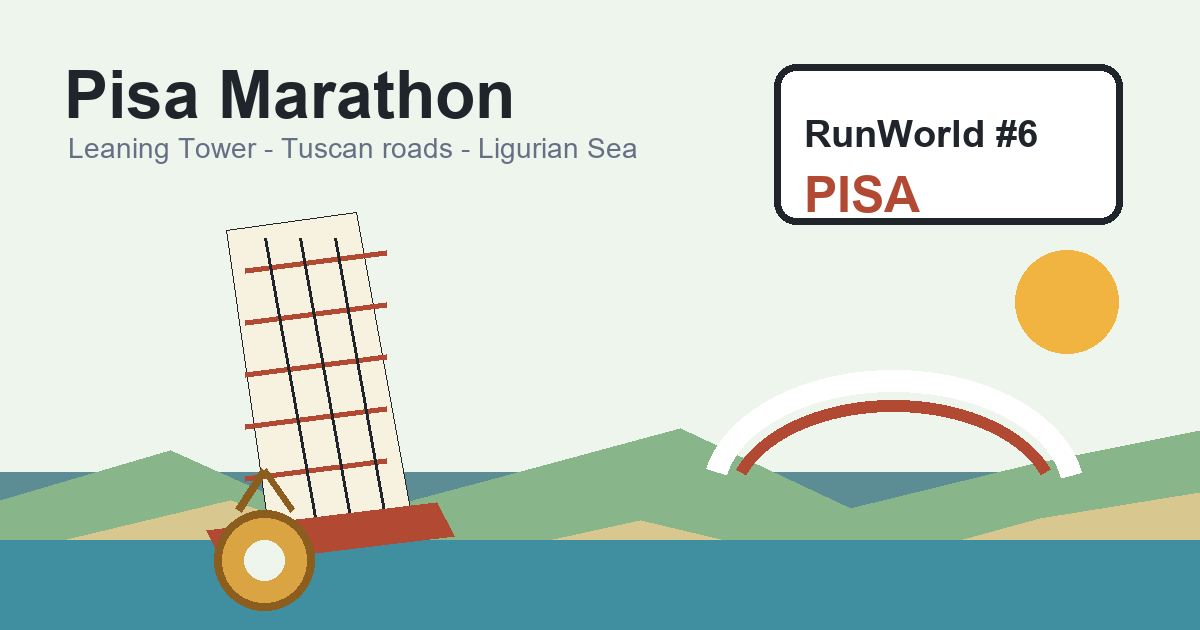
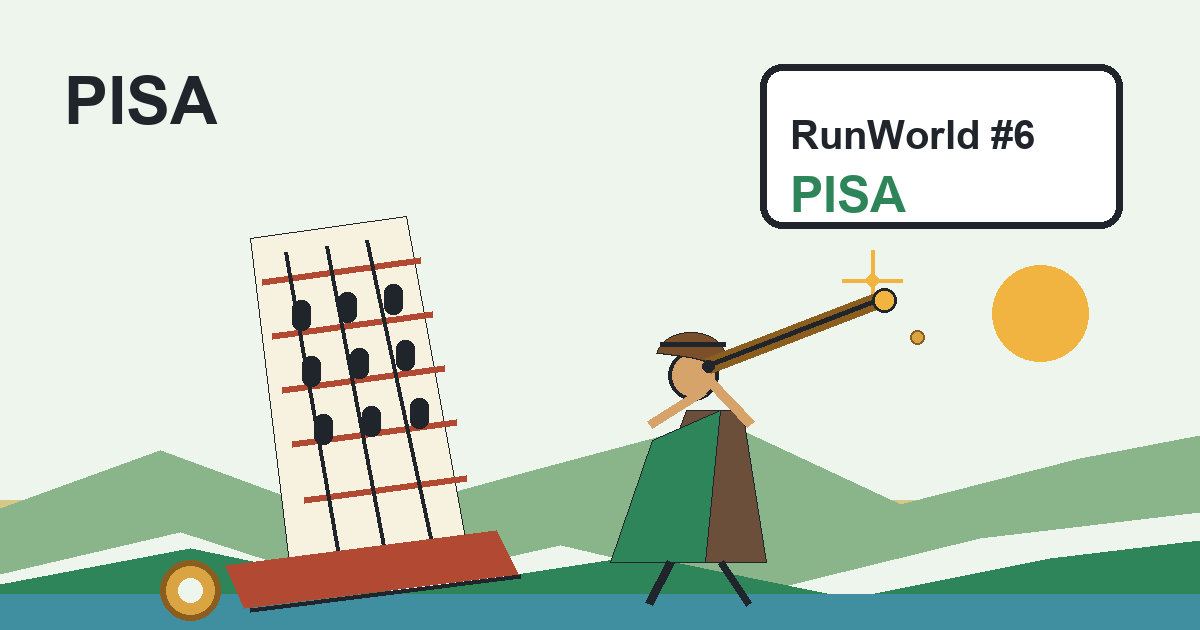
Redesign Pisa RunWorld cover

diff --git a/run50/facebook/pisa-marathon.html b/run50/facebook/pisa-marathon.html
@@ -259,7 +259,7 @@
       <h1>Pisa turned a marathon into a Tuscan art-school road trip</h1>
       <p class="dek">Race date: December 21, 2025. A Pisa Marathon story that starts at the Leaning Tower, runs through Tuscan countryside and the Ligurian Sea, then keeps going through Venice, Milan, Florence and Rome.</p>
       <div class="byline"><span>By Arsenan</span><span>Pisa, Italy</span><span>December 21, 2025</span></div>
-      <figure class="lead-media"><img src="../../assets/og-run50-pisa-icons.png" alt="Icon-style Pisa Marathon cover"><figcaption>Pisa icon cover with the Leaning Tower, Arno River, Tuscan hills, sea and medal.</figcaption></figure>
+      <figure class="lead-media"><img src="../../assets/og-run50-pisa-icons.png" alt="Icon-style Pisa Marathon cover"><figcaption>Pisa icon cover with the Leaning Tower, Galileo's telescope, Tuscan hills and medal.</figcaption></figure>
     </section>
     <section class="story-grid">
       <aside class="rail">

diff --git a/run50/stories/chinese/index.html b/run50/stories/chinese/index.html
@@ -208,7 +208,7 @@
         </div>
       </a>
       <a class="story-card run-world" href="./pisa-marathon.html">
-        <img src="../../../assets/thumb-run50-pisa-icons.svg?v=20260604-1" alt="意大利比萨马拉松城市图标封面" loading="lazy" decoding="async">
+        <img src="../../../assets/thumb-run50-pisa-icons.svg?v=20260604-11" alt="意大利比萨马拉松城市图标封面" loading="lazy" decoding="async">
         <div class="story-copy">
           <p class="story-meta">意大利比萨 · 2025.12.21</p>
           <h2 class="story-title">RunWorld #第6国｜意大利：比萨马拉松</h2>

diff --git a/run50/stories/english/index.html b/run50/stories/english/index.html
@@ -164,7 +164,7 @@
         </div>
       </a>
       <a class="story-card run-world" href="./pisa-marathon.html">
-        <img src="../../../assets/thumb-run50-pisa-icons.svg?v=20260604-1" alt="Icon cover for Pisa Marathon" />
+        <img src="../../../assets/thumb-run50-pisa-icons.svg?v=20260604-11" alt="Icon cover for Pisa Marathon" />
         <div class="story-card-content">
           <div class="meta">Italy · Pisa · 2025.12.21</div>
           <h2>Pisa Marathon: under the Leaning Tower and through Tuscany</h2>

diff --git a/run50/facebook/index.html b/run50/facebook/index.html
@@ -240,7 +240,7 @@
           <span>Run50 Facebook</span>
         </div>
       </div>
-      <img src="../../assets/thumb-run50-pisa-icons.svg?v=20260604-1" alt="Icon-style Pisa Marathon cover">
+      <img src="../../assets/thumb-run50-pisa-icons.svg?v=20260604-11" alt="Icon-style Pisa Marathon cover">
     </a>
     <a class="story-card run-50" href="./miami-marathon.html">
       <div>

diff --git a/tools/build_pisa_story.py b/tools/build_pisa_story.py
@@ -786,7 +786,7 @@ def facebook_page(article: str) -> str:
       <h1>{escape(title)}</h1>
       <p class="dek">{escape(desc)}</p>
       <div class="byline"><span>By Arsenan</span><span>Pisa, Italy</span><span>December 21, 2025</span></div>
-      <figure class="lead-media"><img src="../../assets/og-run50-pisa-icons.png" alt="Icon-style Pisa Marathon cover"><figcaption>Pisa icon cover with the Leaning Tower, Arno River, Tuscan hills, sea and medal.</figcaption></figure>
+      <figure class="lead-media"><img src="../../assets/og-run50-pisa-icons.png" alt="Icon-style Pisa Marathon cover"><figcaption>Pisa icon cover with the Leaning Tower, Galileo's telescope, Tuscan hills and medal.</figcaption></figure>
     </section>
     <section class="story-grid">
       <aside class="rail">
@@ -832,56 +832,94 @@ def fit_font(draw, text, max_width, start_size, bold=False, min_size=24):
 def write_pisa_png():
     image = Image.new("RGB", (1200, 630), "#eef5ec")
     draw = ImageDraw.Draw(image)
-    draw.text((64, 58), "Pisa Marathon", font=font(66, True), fill="#20242b")
-    draw.text((68, 132), "Leaning Tower - Tuscan roads - Ligurian Sea", font=font(28), fill="#667085")
-    draw.rounded_rectangle((774, 64, 1122, 224), radius=22, fill="#ffffff", outline="#20242b", width=7)
-    draw.text((804, 112), "RunWorld #6", font=font(38, True), fill="#20242b")
-    draw.text((804, 166), "PISA", font=font(50, True), fill="#b24a33")
+    draw.text((64, 64), "PISA", font=font(66, True), fill="#20242b")
+    draw.rounded_rectangle((760, 64, 1122, 228), radius=22, fill="#ffffff", outline="#20242b", width=7)
+    draw.text((790, 112), "RunWorld #6", font=font(40, True), fill="#20242b")
+    draw.text((790, 166), "PISA", font=font(50, True), fill="#2f855a")
 
-    draw.ellipse((1015, 250, 1118, 353), fill="#f2b441")
-    draw.rectangle((0, 472, 1200, 630), fill="#5c8d94")
-    draw.polygon([(0, 500), (170, 450), (330, 522), (510, 474), (680, 428), (850, 508), (1030, 464), (1200, 430), (1200, 630), (0, 630)], fill="#89b58a")
-    draw.polygon([(0, 555), (230, 500), (430, 566), (640, 520), (850, 570), (1040, 518), (1200, 492), (1200, 630), (0, 630)], fill="#d8c78f")
-    draw.rectangle((0, 540, 1200, 630), fill="#3f8fa0")
-    draw.arc((702, 370, 1084, 618), 192, 350, fill="#ffffff", width=22)
-    draw.arc((726, 400, 1060, 610), 200, 340, fill="#b24a33", width=12)
+    draw.ellipse((992, 265, 1088, 361), fill="#f2b441")
+    draw.ellipse((866, 274, 878, 286), fill="#f2b441")
+    draw.line((872, 250, 872, 310), fill="#f2b441", width=4)
+    draw.line((842, 280, 902, 280), fill="#f2b441", width=4)
+    draw.ellipse((910, 330, 924, 344), fill="#d9a441", outline="#8b5e20", width=2)
 
-    tower = [(226, 230), (356, 212), (412, 520), (270, 540)]
+    draw.rectangle((0, 500, 1200, 630), fill="#d6c987")
+    draw.polygon([(0, 508), (160, 450), (350, 520), (540, 468), (720, 420), (900, 504), (1080, 458), (1200, 435), (1200, 630), (0, 630)], fill="#8ab48a")
+    draw.polygon([(0, 574), (180, 532), (360, 590), (560, 545), (760, 592), (980, 538), (1200, 512), (1200, 630), (0, 630)], fill="#eef5ec")
+    draw.polygon([(0, 584), (190, 548), (400, 592), (640, 555), (850, 598), (1050, 558), (1200, 540), (1200, 630), (0, 630)], fill="#2f855a")
+    draw.rectangle((0, 594, 1200, 630), fill="#3f8fa0")
+
+    tower = [(250, 238), (406, 216), (470, 565), (292, 588)]
     draw.polygon(tower, fill="#f7f2df", outline="#20242b")
-    for y in [270, 322, 374, 426, 478]:
-        draw.line((245, y, 386, y - 18), fill="#b24a33", width=6)
-    for x in [265, 300, 335]:
-        draw.line((x, 238, x + 52, 528), fill="#20242b", width=3)
-    draw.polygon([(206, 530), (436, 502), (454, 536), (224, 564)], fill="#b24a33")
-    draw.ellipse((214, 510, 314, 610), fill="#d9a441", outline="#8b5e20", width=8)
-    draw.ellipse((244, 540, 284, 580), fill="#eef5ec")
-    draw.line((238, 510, 264, 470, 292, 510), fill="#8b5e20", width=7)
+    for line in [(262, 282, 420, 260), (272, 336, 432, 314), (282, 390, 444, 368), (292, 444, 456, 422), (304, 500, 466, 478)]:
+        draw.line(line, fill="#b24a33", width=7)
+    for line in [(285, 252, 342, 578), (326, 246, 388, 572), (366, 240, 436, 566)]:
+        draw.line(line, fill="#20242b", width=4)
+    for x, y in [(292, 300), (338, 292), (384, 284), (302, 356), (350, 348), (396, 340), (314, 414), (362, 406), (410, 398)]:
+        draw.rounded_rectangle((x, y, x + 18, y + 30), radius=8, fill="#20242b")
+    draw.polygon([(225, 565), (496, 530), (518, 574), (244, 608)], fill="#b24a33")
+    draw.line((250, 610, 520, 576), fill="#20242b", width=5)
+
+    draw.polygon([(686, 410), (742, 410), (766, 562), (630, 562)], fill="#6b4f3b", outline="#20242b")
+    draw.polygon([(652, 440), (720, 410), (705, 562), (610, 562)], fill="#2f855a", outline="#20242b")
+    draw.ellipse((668, 350, 718, 400), fill="#d6a36a", outline="#20242b", width=4)
+    draw.pieslice((656, 332, 725, 382), 190, 20, fill="#7a4f2a", outline="#20242b")
+    draw.line((660, 344, 725, 344), fill="#20242b", width=5)
+    draw.line((708, 380, 750, 424), fill="#d6a36a", width=10)
+    draw.line((650, 424, 704, 390), fill="#d6a36a", width=10)
+    draw.line((708, 365, 882, 298), fill="#8b5e20", width=18)
+    draw.line((708, 365, 882, 298), fill="#20242b", width=5)
+    draw.ellipse((872, 288, 896, 312), fill="#f2b441", outline="#20242b", width=3)
+    draw.ellipse((702, 360, 714, 372), fill="#20242b")
+    draw.line((670, 562, 648, 604), fill="#20242b", width=8)
+    draw.line((720, 562, 748, 604), fill="#20242b", width=8)
+
+    draw.ellipse((160, 560, 220, 620), fill="#d9a441", outline="#8b5e20", width=6)
+    draw.ellipse((178, 578, 202, 602), fill="#eef5ec")
     image.save(REPO / "assets" / "og-run50-pisa-icons.png", "PNG")
 
 
 def write_pisa_svg():
     svg = '''<svg xmlns="http://www.w3.org/2000/svg" viewBox="0 0 1200 750" role="img" aria-labelledby="title desc">
-<title id="title">Pisa Marathon icon cover</title>
-<desc id="desc">Icon style cover with Pisa title, RunWorld badge, Leaning Tower, Tuscan hills, sea, bridge, sun and medal.</desc>
+<title id="title">Pisa icon cover</title>
+<desc id="desc">Icon style cover with Pisa title, fixed RunWorld badge, Leaning Tower, Galileo looking through a telescope, Tuscan hills and medal.</desc>
 <rect width="1200" height="750" fill="#eef5ec"/>
-<text x="70" y="104" font-family="Arial, Helvetica, sans-serif" font-size="66" font-weight="900" fill="#20242b">Pisa Marathon</text>
-<text x="74" y="160" font-family="Arial, Helvetica, sans-serif" font-size="29" font-weight="700" fill="#667085">Leaning Tower - Tuscan roads - Ligurian Sea</text>
-<rect x="774" y="62" width="348" height="162" rx="22" fill="#ffffff" stroke="#20242b" stroke-width="8"/>
-<text x="804" y="122" font-family="Arial, Helvetica, sans-serif" font-size="41" font-weight="900" fill="#20242b">RunWorld #6</text>
-<text x="804" y="176" font-family="Arial, Helvetica, sans-serif" font-size="52" font-weight="900" fill="#b24a33">PISA</text>
-<circle cx="1072" cy="292" r="58" fill="#f2b441"/>
-<path d="M0 580 C170 530 340 620 510 560 C690 500 850 610 1030 548 C1115 520 1160 520 1200 498 L1200 750 L0 750 Z" fill="#89b58a"/>
-<path d="M0 650 C230 590 430 675 640 620 C850 575 1040 640 1200 590 L1200 750 L0 750 Z" fill="#d8c78f"/>
-<path d="M0 650 L1200 596 L1200 750 L0 750 Z" fill="#3f8fa0"/>
-<path d="M700 648 Q892 500 1084 648" stroke="#ffffff" stroke-width="26" fill="none"/>
-<path d="M728 648 Q894 535 1060 648" stroke="#b24a33" stroke-width="13" fill="none"/>
-<path d="M230 278 L360 258 L420 638 L270 656 Z" fill="#f7f2df" stroke="#20242b" stroke-width="6"/>
-<path d="M246 326 L386 306 M256 386 L396 366 M266 446 L406 426 M276 506 L416 486 M286 566 L426 546" stroke="#b24a33" stroke-width="7"/>
-<path d="M268 292 L324 648 M306 286 L366 642 M344 280 L408 638" stroke="#20242b" stroke-width="4"/>
-<path d="M206 636 L438 608 L458 646 L224 678 Z" fill="#b24a33"/>
-<circle cx="286" cy="654" r="55" fill="#d9a441" stroke="#8b5e20" stroke-width="8"/>
-<circle cx="286" cy="654" r="24" fill="#eef5ec"/>
-<path d="M254 628 L286 588 L318 628" stroke="#8b5e20" stroke-width="8" stroke-linecap="round" stroke-linejoin="round" fill="none"/>
+<text x="70" y="104" font-family="Arial, Helvetica, sans-serif" font-size="66" font-weight="900" fill="#20242b">PISA</text>
+<rect x="758" y="62" width="364" height="166" rx="22" fill="#ffffff" stroke="#20242b" stroke-width="8"/>
+<text x="790" y="122" font-family="Arial, Helvetica, sans-serif" font-size="41" font-weight="900" fill="#20242b">RunWorld #6</text>
+<text x="790" y="182" font-family="Arial, Helvetica, sans-serif" font-size="52" font-weight="900" fill="#2f855a">PISA</text>
+<circle cx="1036" cy="358" r="58" fill="#f2b441"/>
+<circle cx="908" cy="330" r="8" fill="#d9a441" stroke="#8b5e20" stroke-width="2"/>
+<circle cx="872" cy="292" r="7" fill="#f2b441"/>
+<path d="M872 258 L872 326 M838 292 L906 292" stroke="#f2b441" stroke-width="4" stroke-linecap="round"/>
+<rect x="0" y="610" width="1200" height="140" fill="#d6c987"/>
+<path d="M0 610 L160 535 L350 622 L540 558 L720 502 L900 610 L1080 550 L1200 525 L1200 750 L0 750 Z" fill="#8ab48a"/>
+<path d="M0 682 L180 632 L360 700 L560 646 L760 704 L980 638 L1200 612 L1200 750 L0 750 Z" fill="#eef5ec"/>
+<path d="M0 694 L190 650 L400 704 L640 660 L850 710 L1050 666 L1200 648 L1200 750 L0 750 Z" fill="#2f855a"/>
+<rect x="0" y="708" width="1200" height="42" fill="#3f8fa0"/>
+<path d="M270 270 L428 248 L504 670 L318 696 Z" fill="#f7f2df" stroke="#20242b" stroke-width="7"/>
+<path d="M284 322 L444 300 M296 386 L456 364 M308 450 L470 428 M320 514 L482 492 M334 580 L494 558" stroke="#b24a33" stroke-width="8"/>
+<path d="M306 286 L366 684 M350 280 L414 678 M394 274 L466 672" stroke="#20242b" stroke-width="5"/>
+<g fill="#20242b">
+  <rect x="315" y="344" width="20" height="34" rx="8"/><rect x="365" y="336" width="20" height="34" rx="8"/><rect x="414" y="328" width="20" height="34" rx="8"/>
+  <rect x="328" y="410" width="20" height="34" rx="8"/><rect x="380" y="402" width="20" height="34" rx="8"/><rect x="430" y="394" width="20" height="34" rx="8"/>
+  <rect x="342" y="478" width="20" height="34" rx="8"/><rect x="394" y="470" width="20" height="34" rx="8"/><rect x="446" y="462" width="20" height="34" rx="8"/>
+</g>
+<path d="M242 676 L530 635 L554 688 L260 726 Z" fill="#b24a33"/>
+<path d="M260 728 L554 690" stroke="#20242b" stroke-width="6" stroke-linecap="round"/>
+<path d="M686 474 L746 474 L772 666 L624 666 Z" fill="#6b4f3b" stroke="#20242b" stroke-width="6"/>
+<path d="M650 510 L724 474 L706 666 L598 666 Z" fill="#2f855a" stroke="#20242b" stroke-width="6"/>
+<circle cx="696" cy="422" r="29" fill="#d6a36a" stroke="#20242b" stroke-width="5"/>
+<path d="M660 400 Q690 366 730 402 L720 416 L666 416 Z" fill="#7a4f2a" stroke="#20242b" stroke-width="5"/>
+<path d="M666 386 L734 386" stroke="#20242b" stroke-width="6" stroke-linecap="round"/>
+<path d="M708 456 L758 510 M652 512 L704 466" stroke="#d6a36a" stroke-width="12" stroke-linecap="round"/>
+<path d="M708 438 L902 356" stroke="#8b5e20" stroke-width="20" stroke-linecap="round"/>
+<path d="M708 438 L902 356" stroke="#20242b" stroke-width="6" stroke-linecap="round"/>
+<circle cx="896" cy="352" r="15" fill="#f2b441" stroke="#20242b" stroke-width="4"/>
+<circle cx="704" cy="432" r="7" fill="#20242b"/>
+<path d="M668 666 L642 724 M722 666 L754 724" stroke="#20242b" stroke-width="9" stroke-linecap="round"/>
+<circle cx="170" cy="692" r="34" fill="#d9a441" stroke="#8b5e20" stroke-width="7"/>
+<circle cx="170" cy="692" r="14" fill="#eef5ec"/>
 </svg>'''
     (REPO / "assets" / "thumb-run50-pisa-icons.svg").write_text(svg, encoding="utf-8", newline="\n")
 
